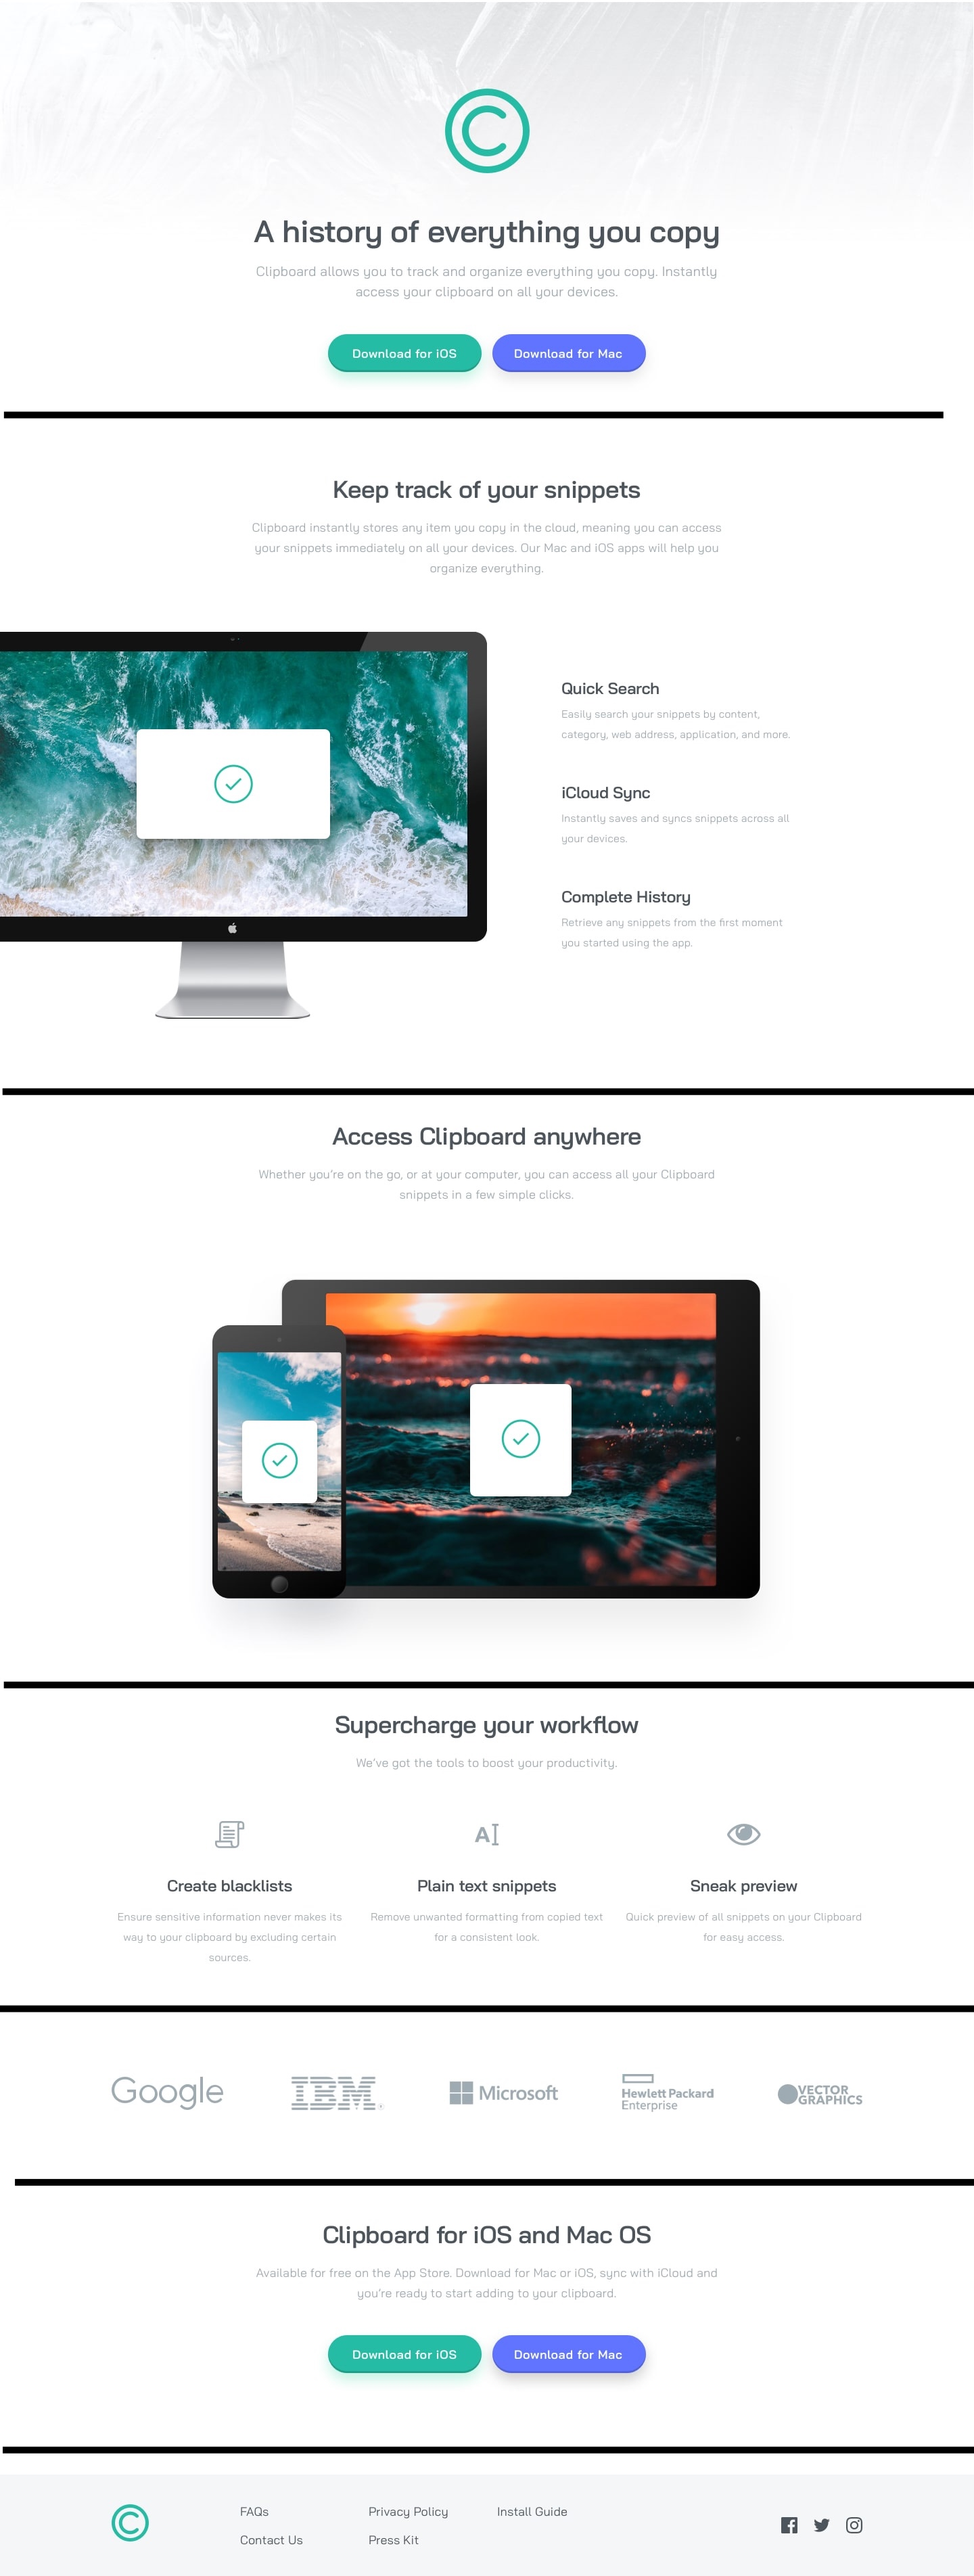
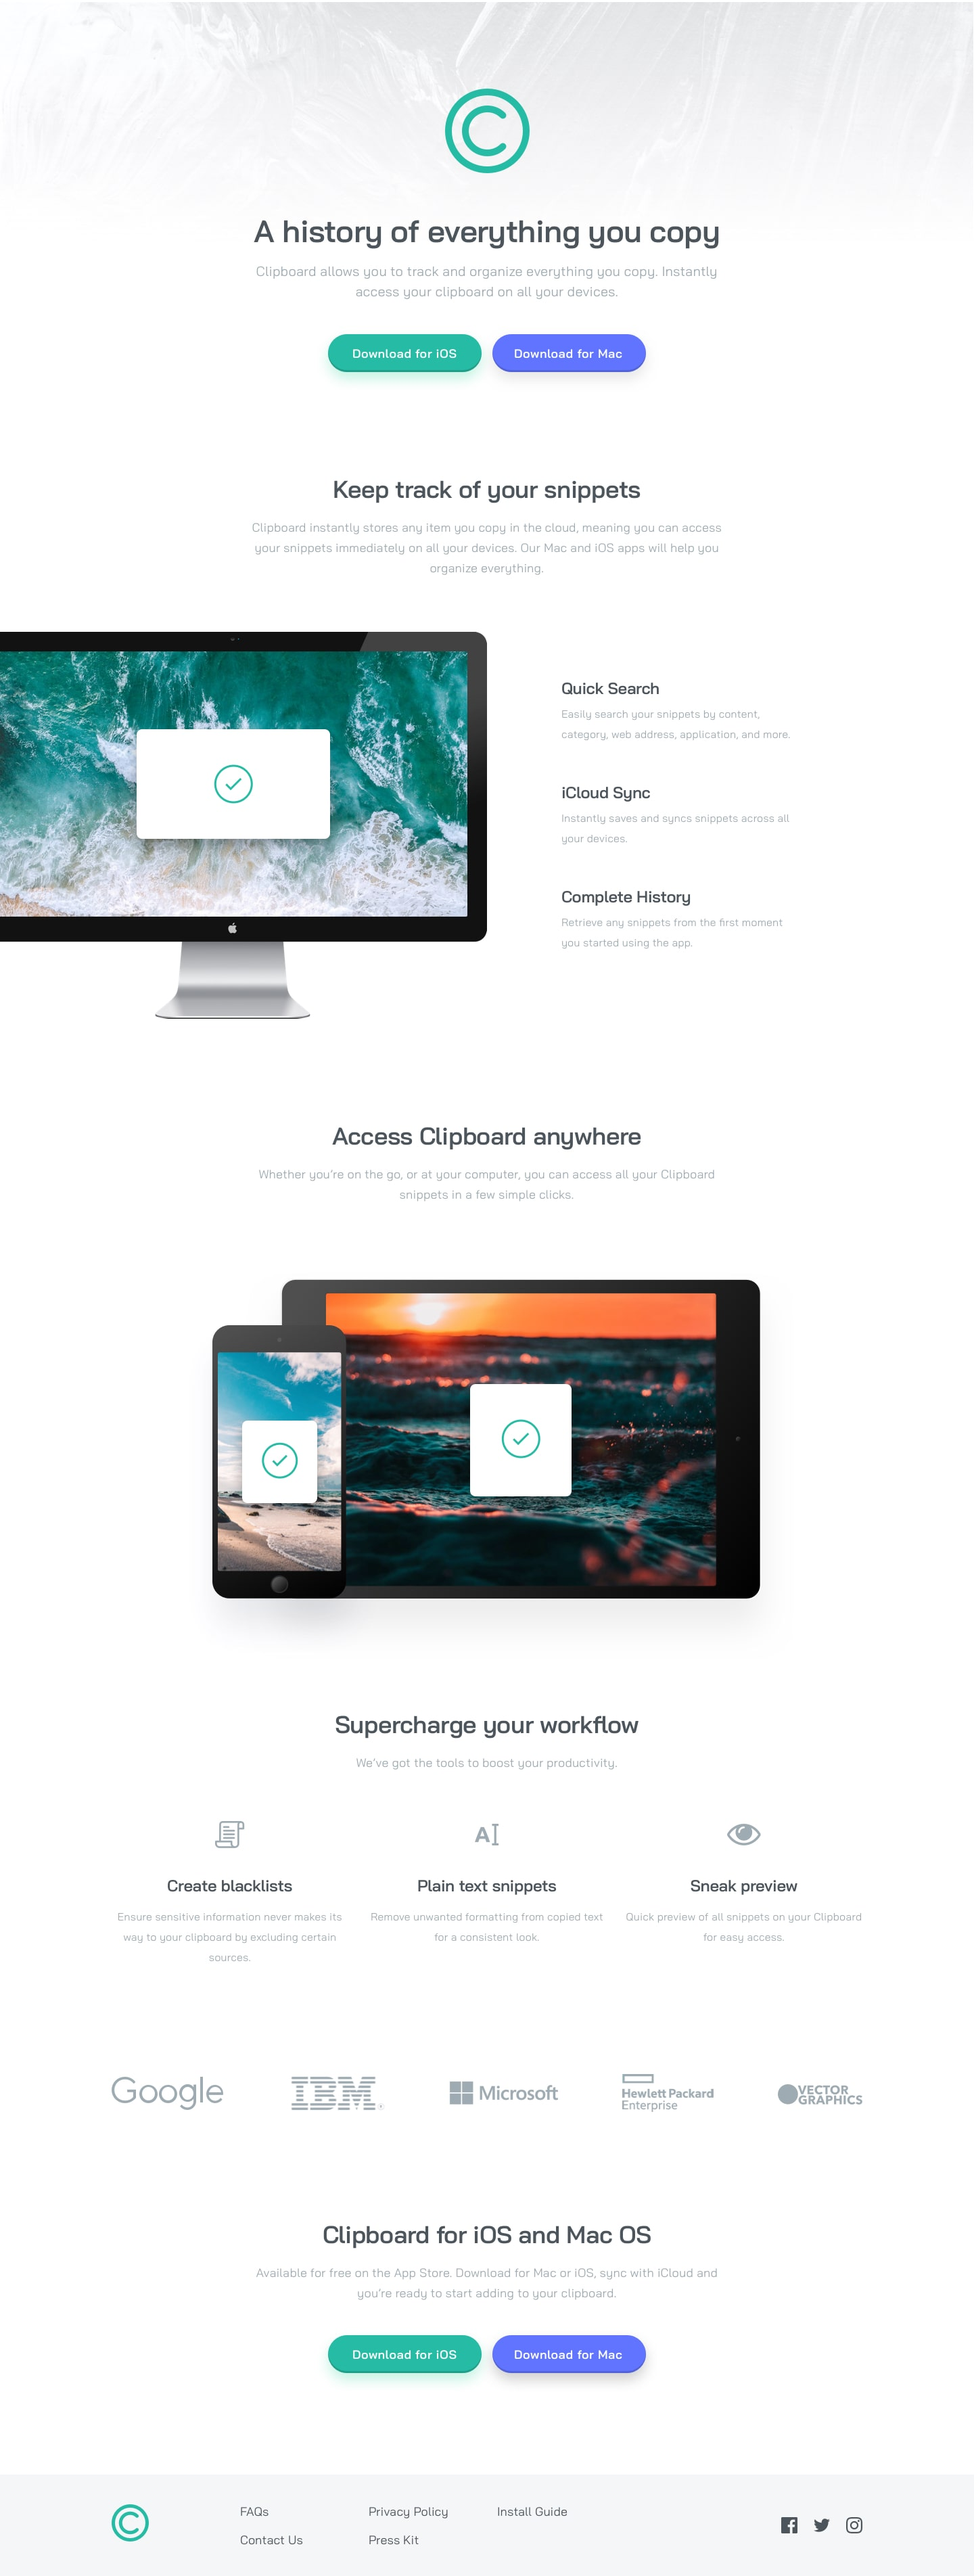
feat: :art: design desktop version

diff --git a/styles.css b/styles.css
@@ -76,12 +76,21 @@ button {
     color: white;
     font-size: 1.2rem;
     border-radius: 99px;
+    transition: background-color .2s ease-in-out;
+    cursor: pointer;
     box-shadow: inset 0px -2px 0px 1px rgba(0, 0, 0, 0.25), 0px 3px 10px 1px hsl(171deg 66% 44% / 30%);
+}
+
+button:hover{
+    background-color: #5dccbb;
 }
 
 .button-secondary {
     background: var(--blue-100);
     box-shadow: inset 0px -2px 0px 1px rgba(0, 0, 0, 0.25), 0px 3px 10px 1px hsl(233deg 100% 69% / 30%);
+}
+.button-secondary:hover{
+    background: #8a95fe;
 }
 
 .buttons {
@@ -141,6 +150,13 @@ footer {
     background: hsl(201 11% 66% / .15);
     padding: 2rem;
 
+    .footer-content {
+        display: flex;
+        flex-direction: column;
+        justify-content: center;
+        align-items: center;
+    }
+
     .footer-nav img {
         width: 50%;
     }
@@ -199,6 +215,11 @@ footer {
         }
     }
 
+    header {
+        margin: 1rem 0rem 2rem;
+        max-width: 700px;
+    }
+
     #hero {
         background-image: url("./images/bg-header-desktop.png");
 
@@ -217,6 +238,7 @@ footer {
             text-align: left;
             width: 100%;
             display: flex;
+
             ul {
                 flex-direction: column;
                 justify-content: center;
@@ -224,37 +246,131 @@ footer {
                 gap: 2rem;
                 width: 100%;
                 margin-left: 2rem;
-                li{
+
+                li {
                     padding: 1rem 6rem;
-                   
+
                 }
             }
-    
+
             picture,
             ul {
                 flex: 1;
             }
-            li{
+
+            li {
                 font-size: 16px;
             }
+
             picture {
                 position: relative;
             }
 
-            img{
+            img {
                 height: 100%;
                 margin: 0;
                 width: auto;
                 position: absolute;
                 right: 0;
+                
             }
-            
+
         }
     }
 
     #access-anywhere {
         img {
             width: 90%;
+            margin: 3rem 0rem 0rem 0rem;
+        }
+    }
+
+    #partners {
+        .partners-content{
+            padding: 1rem 2rem;
+        }
+        img {
+            max-width: 100%;
+            height: 50px;
+            margin: 1rem 0rem 1rem 0rem;
+        }
+
+        ul {
+            width: 100%;
+
+            li {
+                margin-bottom: 0;
+            }
+        }
+    }
+
+    #download {
+        .download-content {
+            min-height: auto;
+            padding: 6rem 2rem;
+        }
+
+    }
+
+    footer {
+        a{
+            transition: color .2s ease-in-out;
+            cursor: pointer;
+        }
+        a:hover{
+            color: var(--green-500);
+        }
+        .footer-content {
+            max-width: 1200px;
+            width: 100%;
+            display: flex;
+            flex-direction: row;
+            justify-content: space-between;
+            align-items: center;
+            padding: 0rem 2rem;
+        }
+
+        nav.footer-nav {
+            gap: 8rem;
+
+            img {
+                width: 55px;
+                height: 55px;
+                margin: .5rem;
+            }
+
+            ul {
+                margin: 0;
+                max-width: 550px;
+                text-align: left;
+                display: grid;
+                grid-auto-flow: column;
+                grid-template-rows: repeat(2, auto);
+                column-gap: 3rem;
+                row-gap: 1rem;
+            }
+
+            li {
+                padding: 0 1rem;
+                display: flex;
+                margin-bottom: 0;
+            }
+
+        }
+
+        nav.social-nav {
+            ul {
+                gap: 1rem;
+            }
+
+            li {
+                padding: .5rem;
+            }
+        }
+
+        nav {
+            display: flex;
+            flex-direction: row;
         }
     }
 }

diff --git a/index.html b/index.html
@@ -142,32 +142,32 @@
   </main>
 
   <footer>
-    
-    <nav class="footer-nav">
-      <img src="images/logo.svg" alt="">
-      <ul>
-        <li><a href="#">FAQs</a></li>
-        <li><a href="#">Contact Us</a></li>
-        <li><a href="#">Privacy Policy</a></li>
-        <li><a href="#">Press Kit</a></li>
-        <li><a href="#">Install Guide</a></li>
-      </ul>
-    </nav>
-    <nav class="social-nav">
-      <ul>
-        <li>
-          <a href="#"><img src="images/icon-facebook.svg" alt=""></a>
-        </li>
-        <li>
-          <a href="#"><img src="images/icon-twitter.svg" alt=""></a>
-        </li>
-        <li>
-          <a href="#"><img src="images/icon-instagram.svg" alt=""></a>
-        </li>
-      </ul>
-    </nav>
+    <div class="footer-content">
+      <nav class="footer-nav">
+        <img src="images/logo.svg" alt="">
+        <ul>
+          <li><a href="#">FAQs</a></li>
+          <li><a href="#">Contact Us</a></li>
+          <li><a href="#">Privacy Policy</a></li>
+          <li><a href="#">Press Kit</a></li>
+          <li><a href="#">Install Guide</a></li>
+        </ul>
+      </nav>
+      <nav class="social-nav">
+        <ul>
+          <li>
+            <a href="#"><img src="images/icon-facebook.svg" alt=""></a>
+          </li>
+          <li>
+            <a href="#"><img src="images/icon-twitter.svg" alt=""></a>
+          </li>
+          <li>
+            <a href="#"><img src="images/icon-instagram.svg" alt=""></a>
+          </li>
+        </ul>
+      </nav>
+    </div>
   </footer>
-  <img src="./design/desktop-design.jpg" alt="">
 </body>
 
 </html>
